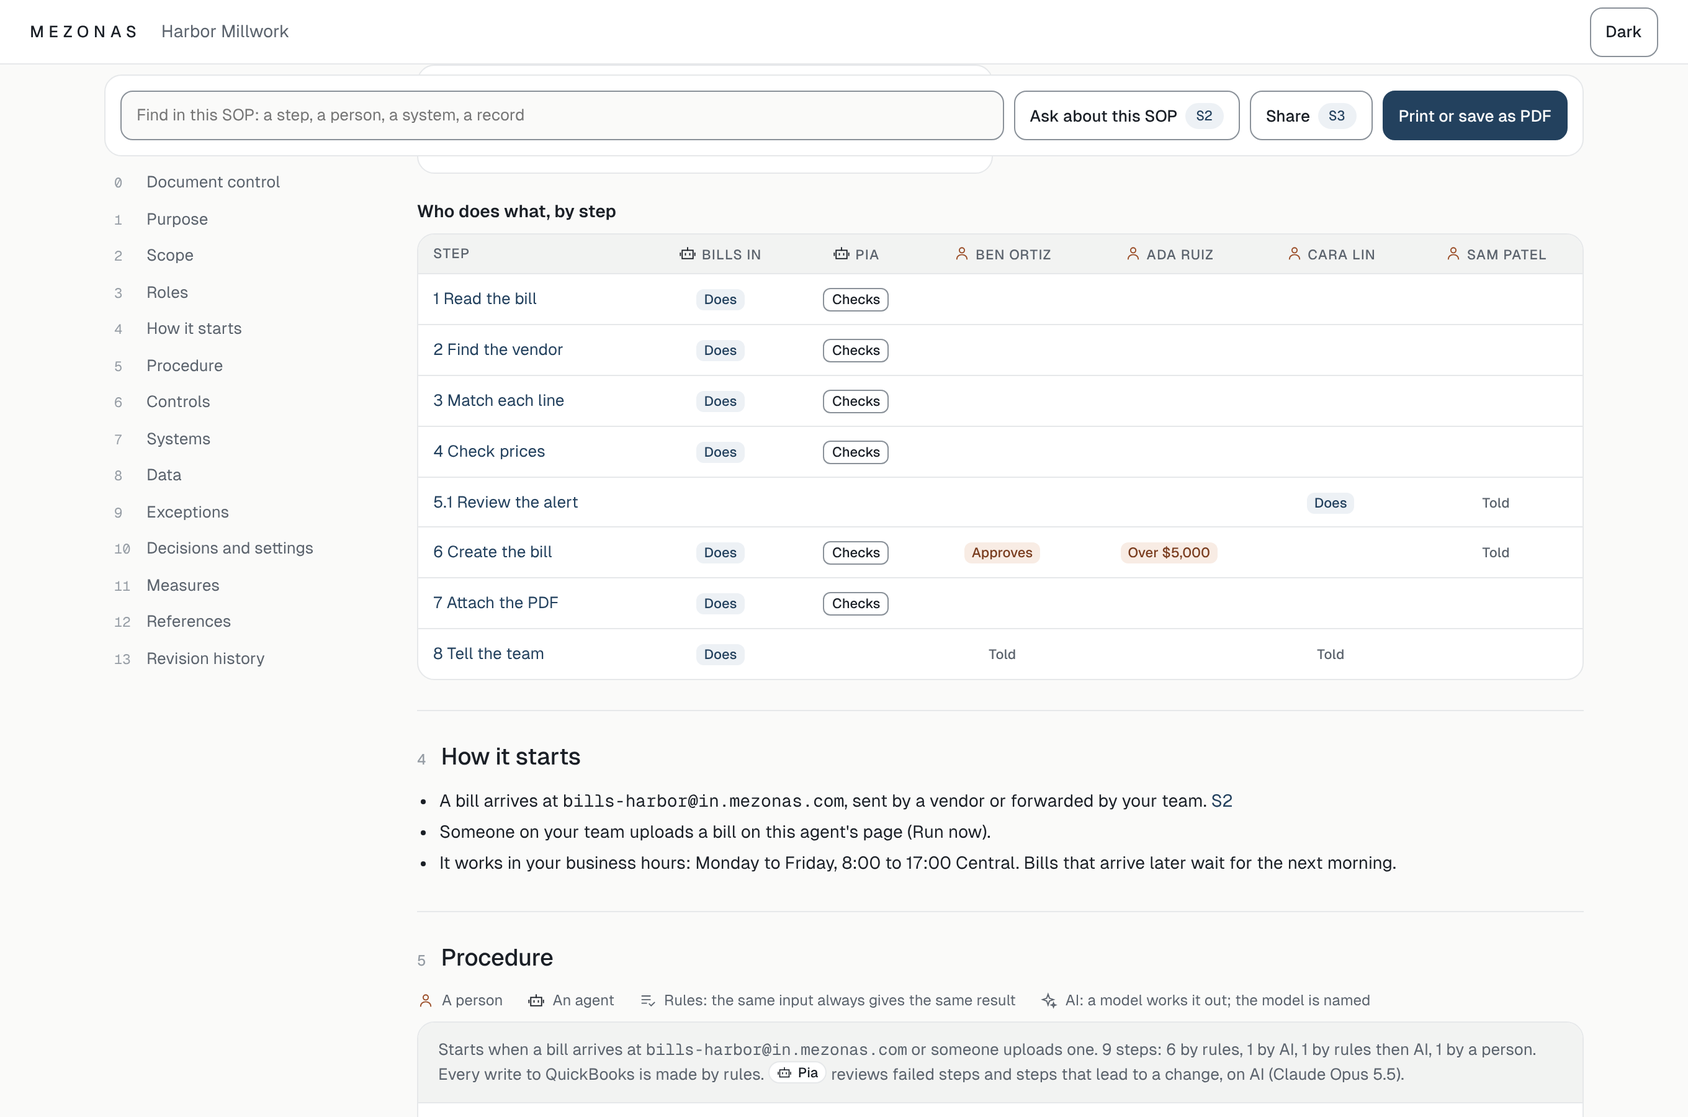
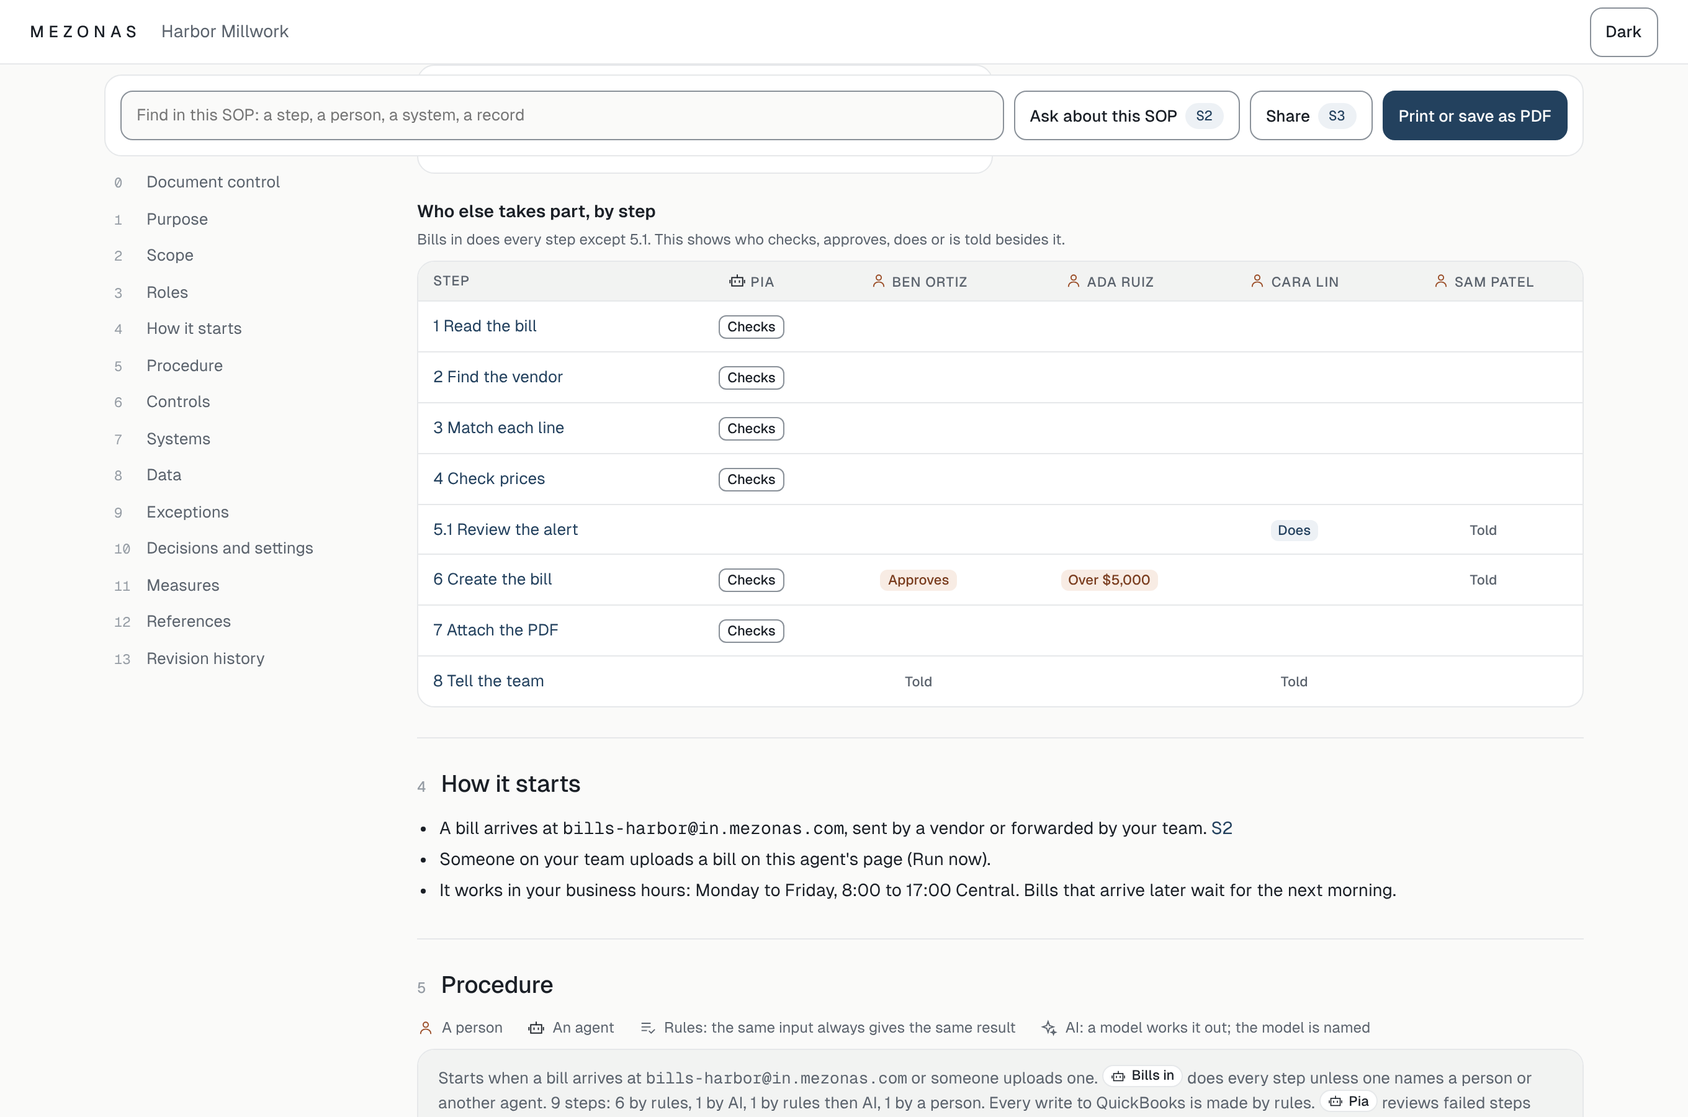
The SOP names its agent once, not on every step (owner, 2026-11-21)
A step names who does it only when that isn't the SOP's own agent: a person,
another agent or a hand-off; approvers and who is told stay in its facts. The
people table drops the agent's own column and becomes 'Who else takes part'.

Claude-Session: https://claude.ai/code/session_01SXdUGEkWKQ6EDFvppzxUte

diff --git a/docs/design/sop.html b/docs/design/sop.html
@@ -372,19 +372,20 @@
           <div class="card role"><h3>Builds and changes it <span class="chip chip--team">Mezonas</span></h3><p class="small muted">Changes to the steps are made by us and recorded as a new revision. You can adjust the settings in 10.3 yourself.</p></div>
         </div>
 
-        <h3 style="margin-bottom:var(--space-2)">Who does what, by step</h3>
+        <h3 style="margin-bottom:var(--space-1)">Who else takes part, by step</h3>
+        <p class="small muted" style="margin-bottom:var(--space-2)">Bills in does every step except 5.1. This shows who checks, approves, does or is told besides it.</p>
         <div class="tbl-wrap">
           <table class="matrix">
-            <thead><tr><th>Step</th><th><i class="ic ic-agent"></i>Bills in</th><th><i class="ic ic-agent"></i>Pia</th><th><i class="ic ic-person"></i>Ben Ortiz</th><th><i class="ic ic-person"></i>Ada Ruiz</th><th><i class="ic ic-person"></i>Cara Lin</th><th><i class="ic ic-person"></i>Sam Patel</th></tr></thead>
+            <thead><tr><th>Step</th><th><i class="ic ic-agent"></i>Pia</th><th><i class="ic ic-person"></i>Ben Ortiz</th><th><i class="ic ic-person"></i>Ada Ruiz</th><th><i class="ic ic-person"></i>Cara Lin</th><th><i class="ic ic-person"></i>Sam Patel</th></tr></thead>
             <tbody>
-              <tr><td><a href="#step-1">1 Read the bill</a></td><td><span class="cell cell--does">Does</span></td><td><span class="cell cell--checks">Checks</span></td><td></td><td></td><td></td><td></td></tr>
-              <tr><td><a href="#step-2">2 Find the vendor</a></td><td><span class="cell cell--does">Does</span></td><td><span class="cell cell--checks">Checks</span></td><td></td><td></td><td></td><td></td></tr>
-              <tr><td><a href="#step-3">3 Match each line</a></td><td><span class="cell cell--does">Does</span></td><td><span class="cell cell--checks">Checks</span></td><td></td><td></td><td></td><td></td></tr>
-              <tr><td><a href="#step-4">4 Check prices</a></td><td><span class="cell cell--does">Does</span></td><td><span class="cell cell--checks">Checks</span></td><td></td><td></td><td></td><td></td></tr>
-              <tr><td><a href="#step-5-1">5.1 Review the alert</a></td><td></td><td></td><td></td><td></td><td><span class="cell cell--does">Does</span></td><td><span class="cell cell--told">Told</span></td></tr>
-              <tr><td><a href="#step-6">6 Create the bill</a></td><td><span class="cell cell--does">Does</span></td><td><span class="cell cell--checks">Checks</span></td><td><span class="cell cell--approves">Approves</span></td><td><span class="cell cell--approves">Over $5,000</span></td><td></td><td><span class="cell cell--told">Told</span></td></tr>
-              <tr><td><a href="#step-7">7 Attach the PDF</a></td><td><span class="cell cell--does">Does</span></td><td><span class="cell cell--checks">Checks</span></td><td></td><td></td><td></td><td></td></tr>
-              <tr><td><a href="#step-8">8 Tell the team</a></td><td><span class="cell cell--does">Does</span></td><td></td><td><span class="cell cell--told">Told</span></td><td></td><td><span class="cell cell--told">Told</span></td><td></td></tr>
+              <tr><td><a href="#step-1">1 Read the bill</a></td><td><span class="cell cell--checks">Checks</span></td><td></td><td></td><td></td><td></td></tr>
+              <tr><td><a href="#step-2">2 Find the vendor</a></td><td><span class="cell cell--checks">Checks</span></td><td></td><td></td><td></td><td></td></tr>
+              <tr><td><a href="#step-3">3 Match each line</a></td><td><span class="cell cell--checks">Checks</span></td><td></td><td></td><td></td><td></td></tr>
+              <tr><td><a href="#step-4">4 Check prices</a></td><td><span class="cell cell--checks">Checks</span></td><td></td><td></td><td></td><td></td></tr>
+              <tr><td><a href="#step-5-1">5.1 Review the alert</a></td><td></td><td></td><td></td><td><span class="cell cell--does">Does</span></td><td><span class="cell cell--told">Told</span></td></tr>
+              <tr><td><a href="#step-6">6 Create the bill</a></td><td><span class="cell cell--checks">Checks</span></td><td><span class="cell cell--approves">Approves</span></td><td><span class="cell cell--approves">Over $5,000</span></td><td></td><td><span class="cell cell--told">Told</span></td></tr>
+              <tr><td><a href="#step-7">7 Attach the PDF</a></td><td><span class="cell cell--checks">Checks</span></td><td></td><td></td><td></td><td></td></tr>
+              <tr><td><a href="#step-8">8 Tell the team</a></td><td></td><td><span class="cell cell--told">Told</span></td><td></td><td><span class="cell cell--told">Told</span></td><td></td></tr>
             </tbody>
           </table>
         </div>
@@ -410,11 +411,11 @@
           <span><i class="ic ic-ai"></i>AI: a model works it out; the model is named</span>
         </div>
         <div class="card proc">
-          <div class="proc-sum searchable">Starts when a bill arrives at <span class="mono">bills-harbor@in.mezonas.com</span> or someone uploads one. 9 steps: 6 by rules, 1 by AI, 1 by rules then AI, 1 by a person. Every write to QuickBooks is made by rules. <span class="chip chip--sm chip--agent" data-person="pia">Pia</span> reviews failed steps and steps that lead to a change, on AI (Claude Opus 5.5).</div>
+          <div class="proc-sum searchable">Starts when a bill arrives at <span class="mono">bills-harbor@in.mezonas.com</span> or someone uploads one. <span class="chip chip--sm chip--agent" data-person="agent">Bills in</span> does every step unless one names a person or another agent. 9 steps: 6 by rules, 1 by AI, 1 by rules then AI, 1 by a person. Every write to QuickBooks is made by rules. <span class="chip chip--sm chip--agent" data-person="pia">Pia</span> reviews failed steps and steps that lead to a change, on AI (Claude Opus 5.5).</div>
           <div class="ps searchable" id="step-1" data-people="agent pia" data-systems="email mezonas">
             <span class="ps-n">1</span>
             <div>
-              <div class="ps-head"><span class="ps-name">Read the bill</span><span class="method method--ai"><i class="ic ic-ai"></i>AI <span class="model">Claude Sonnet 5.5</span></span><span class="chip chip--sm chip--agent" data-person="agent">Bills in</span></div>
+              <div class="ps-head"><span class="ps-name">Read the bill</span><span class="method method--ai"><i class="ic ic-ai"></i>AI <span class="model">Claude Sonnet 5.5</span></span></div>
               <p class="ps-why">Turns the PDF into vendor, date, lines and totals, so every later step works from the same figures.</p>
               <div class="ps-facts"><span class="chip chip--sm chip--system" data-system="email">Email forwarding</span> <span class="sep">·</span> Saves <a href="#data-d1">bills</a> <span class="sep">·</span> Controls <a href="#control-c8">C8</a> <a href="#control-c10">C10</a> <span class="sep">·</span> If it fails: Pia tries once more, then Ben is told<span class="ps-act"><a href="#">Ask about this</a><a href="#">This is wrong</a></span></div>
             </div>
@@ -422,7 +423,7 @@
           <div class="ps searchable" id="step-2" data-people="agent pia" data-systems="qbo">
             <span class="ps-n">2</span>
             <div>
-              <div class="ps-head"><span class="ps-name">Find the vendor</span><span class="method"><i class="ic ic-rules"></i>Rules</span><span class="chip chip--sm chip--agent" data-person="agent">Bills in</span></div>
+              <div class="ps-head"><span class="ps-name">Find the vendor</span><span class="method"><i class="ic ic-rules"></i>Rules</span></div>
               <p class="ps-why">Looks the vendor up in QuickBooks by name and tax ID, so the bill goes to the right vendor and never makes a duplicate.</p>
               <div class="ps-facts"><span class="chip chip--sm chip--system" data-system="qbo">QuickBooks Online</span> <span class="sep">·</span> <b>Read: On its own</b> <span class="sep">·</span> Reads <a href="#data-d2">vendors</a> <span class="sep">·</span> Controls <a href="#control-c3">C3</a> <a href="#control-c8">C8</a><span class="ps-act"><a href="#">Ask about this</a><a href="#">This is wrong</a></span></div>
             </div>
@@ -430,7 +431,7 @@
           <div class="ps searchable" id="step-3" data-people="agent pia" data-systems="mezonas">
             <span class="ps-n">3</span>
             <div>
-              <div class="ps-head"><span class="ps-name">Match each line to your catalog</span><span class="method method--ai"><i class="ic ic-rules"></i>Rules, then <i class="ic ic-ai"></i>AI <span class="model">Claude Haiku 5.5</span></span><span class="chip chip--sm chip--agent" data-person="agent">Bills in</span></div>
+              <div class="ps-head"><span class="ps-name">Match each line to your catalog</span><span class="method method--ai"><i class="ic ic-rules"></i>Rules, then <i class="ic ic-ai"></i>AI <span class="model">Claude Haiku 5.5</span></span></div>
               <p class="ps-why">Places each line on one of your catalog items by fixed rules; only the lines the rules can't place go to AI, so prices are compared like for like.</p>
               <div class="ps-facts"><span class="chip chip--sm chip--system" data-system="mezonas">Your Purchasing records</span> <span class="sep">·</span> Reads and saves <a href="#data-d3">catalog matches</a> <span class="sep">·</span> Controls <a href="#control-c8">C8</a> <a href="#control-c9">C9</a><span class="ps-act"><a href="#">Ask about this</a><a href="#">This is wrong</a></span></div>
             </div>
@@ -438,7 +439,7 @@
           <div class="ps searchable" id="step-4" data-people="agent pia" data-systems="mezonas">
             <span class="ps-n">4</span>
             <div>
-              <div class="ps-head"><span class="ps-name">Check prices against the contract</span><span class="method"><i class="ic ic-rules"></i>Rules</span><span class="chip chip--sm chip--agent" data-person="agent">Bills in</span></div>
+              <div class="ps-head"><span class="ps-name">Check prices against the contract</span><span class="method"><i class="ic ic-rules"></i>Rules</span></div>
               <p class="ps-why">Compares each price with the vendor's contract and raises an alert when it is more than 3% over, so an overcharge is caught before the bill goes in.</p>
               <div class="ps-facts"><span class="chip chip--sm chip--system" data-system="mezonas">Your Purchasing records</span> <span class="sep">·</span> Saves <a href="#data-d4">prices and alerts</a> <span class="sep">·</span> Tolerance 3% (<a href="#s10">10.3</a>) <span class="sep">·</span> Controls <a href="#control-c8">C8</a><span class="ps-act"><a href="#">Ask about this</a><a href="#">This is wrong</a></span></div>
             </div>
@@ -446,7 +447,7 @@
           <div class="ps searchable" id="step-5" data-people="agent" data-systems="">
             <span class="ps-n">5</span>
             <div>
-              <div class="ps-head"><span class="ps-name">Does a person need to look first?</span><span class="method"><i class="ic ic-rules"></i>Rules</span><span class="chip chip--sm chip--agent" data-person="agent">Bills in</span></div>
+              <div class="ps-head"><span class="ps-name">Does a person need to look first?</span><span class="method"><i class="ic ic-rules"></i>Rules</span></div>
               <p class="ps-why">Sends a bill with a price alert or from a new vendor to a person before anything is written to QuickBooks.</p>
               <div class="ps-facts">Controls <a href="#control-c6">C6</a><span class="ps-act"><a href="#">Ask about this</a><a href="#">This is wrong</a></span></div>
             </div>
@@ -455,16 +456,16 @@
           <div class="ps searchable nested" id="step-5-1" data-people="cara sam" data-systems="">
             <span class="ps-n">5.1</span>
             <div>
-              <div class="ps-head"><span class="ps-name">Review the price alert</span><span class="method method--person"><i class="ic ic-person"></i>A person</span><span class="chip chip--sm chip--person" data-person="cara">Cara Lin</span></div>
+              <div class="ps-head"><span class="ps-name">Review the price alert</span><span class="chip chip--person" data-person="cara">Cara Lin</span></div>
               <p class="ps-why">Cara decides whether a flagged bill goes ahead or stops.</p>
-              <div class="ps-facts">Within 1 business day; a reminder after 4 hours, then <span class="chip chip--sm chip--person" data-person="sam">Sam Patel</span> is told <span class="sep">·</span> If stopped: nothing goes into QuickBooks <span class="sep">·</span> Controls <a href="#control-c7">C7</a><span class="ps-act"><a href="#">Ask about this</a><a href="#">This is wrong</a></span></div>
+              <div class="ps-facts">Within 1 business day; a reminder after 4 hours, then <span class="chip chip--sm chip--person" data-person="sam">Sam Patel</span> is told <span class="sep">·</span> If stopped: nothing goes into QuickBooks, and <span class="chip chip--sm chip--agent">Vendor follow-ups</span> takes it up with the vendor <span class="sep">·</span> Controls <a href="#control-c7">C7</a><span class="ps-act"><a href="#">Ask about this</a><a href="#">This is wrong</a></span></div>
             </div>
           </div>
           <div class="ps-path searchable"><b>Otherwise</b> straight to 6</div>
           <div class="ps searchable" id="step-6" data-people="agent pia ben ada sam" data-systems="qbo">
             <span class="ps-n">6</span>
             <div>
-              <div class="ps-head"><span class="ps-name">Create the bill in QuickBooks</span><span class="method"><i class="ic ic-rules"></i>Rules</span><span class="chip chip--sm chip--agent" data-person="agent">Bills in</span></div>
+              <div class="ps-head"><span class="ps-name">Create the bill in QuickBooks</span><span class="method"><i class="ic ic-rules"></i>Rules</span></div>
               <p class="ps-why">Writes the bill into QuickBooks exactly as it was approved. No AI takes part in the write.</p>
               <div class="ps-facts">Approves <span class="chip chip--sm chip--person" data-person="ben">Ben Ortiz</span> up to $5,000, <span class="chip chip--sm chip--person" data-person="ada">Ada Ruiz</span> over <span class="sep">·</span> within 2 business days, then <span class="chip chip--sm chip--person" data-person="sam">Sam Patel</span> is told <span class="sep">·</span> <span class="chip chip--sm chip--system" data-system="qbo">QuickBooks Online</span> <span class="sep">·</span> <b>Create: Ask me first</b> <span class="sep">·</span> Creates <a href="#data-d5">bills</a> <span class="sep">·</span> Controls <a href="#control-c1">C1</a> <a href="#control-c2">C2</a> <a href="#control-c3">C3</a> <a href="#control-c5">C5</a> <a href="#control-c7">C7</a> <span class="sep">·</span> If rejected: not created, and Cara is told why<span class="ps-act"><a href="#">Ask about this</a><a href="#">This is wrong</a></span></div>
             </div>
@@ -472,7 +473,7 @@
           <div class="ps searchable" id="step-7" data-people="agent pia" data-systems="qbo">
             <span class="ps-n">7</span>
             <div>
-              <div class="ps-head"><span class="ps-name">Attach the PDF to the bill</span><span class="method"><i class="ic ic-rules"></i>Rules</span><span class="chip chip--sm chip--agent" data-person="agent">Bills in</span></div>
+              <div class="ps-head"><span class="ps-name">Attach the PDF to the bill</span><span class="method"><i class="ic ic-rules"></i>Rules</span></div>
               <p class="ps-why">Keeps the original bill with its QuickBooks record, so anyone can check it later.</p>
               <div class="ps-facts"><span class="chip chip--sm chip--system" data-system="qbo">QuickBooks Online</span> <span class="sep">·</span> <b>Update: On its own</b> (since <a href="#s13">6.1</a>) <span class="sep">·</span> Controls <a href="#control-c3">C3</a> <a href="#control-c5">C5</a><span class="ps-act"><a href="#">Ask about this</a><a href="#">This is wrong</a></span></div>
             </div>
@@ -480,7 +481,7 @@
           <div class="ps searchable" id="step-8" data-people="agent ben cara" data-systems="">
             <span class="ps-n">8</span>
             <div>
-              <div class="ps-head"><span class="ps-name">Tell the team</span><span class="method"><i class="ic ic-rules"></i>Rules</span><span class="chip chip--sm chip--agent" data-person="agent">Bills in</span></div>
+              <div class="ps-head"><span class="ps-name">Tell the team</span><span class="method"><i class="ic ic-rules"></i>Rules</span></div>
               <p class="ps-why">Lets Ben and Cara see each bill that went in.</p>
               <div class="ps-facts">Told <span class="chip chip--sm chip--person" data-person="ben">Ben Ortiz</span> <span class="chip chip--sm chip--person" data-person="cara">Cara Lin</span> <span class="sep">·</span> In Mezonas and by email<span class="ps-act"><a href="#">Ask about this</a><a href="#">This is wrong</a></span></div>
             </div>

diff --git a/docs/sop-plan.md b/docs/sop-plan.md
@@ -60,7 +60,8 @@ with a test, in its own PR, whatever is decided here (S0 below).
 | The model on each AI step (owner, 2026-11-21) | Each AI step names the model it runs on, resolved in the runtime's own order (the step's `model`, else its skill's, else the agent's), by one shared function the runtime and the SOP both call, so they can't disagree. The area owner's model is named in Roles and on its control. Shown by name and maker ("Claude Sonnet 5.5, Anthropic"; "GPT-5.5, OpenAI"), from a client-facing list beside `MODEL_LABELS` in `packages/llm`, passed into core by `apps/api` (core doesn't import `llm`). A model with no client-facing name reads "An AI model" rather than an id. Never its price, effort, tokens or prompt. Each maker is already on the public subprocessors list. // DECISION |
 | The point of each step (owner, 2026-11-21) | Every step carries one sentence on why it is there ("Looks the vendor up in QuickBooks so the bill goes to the right vendor, not a duplicate"): a new optional `purpose` on core's step schemas (v3 and v4, at most 200 characters, no default, so stored bundles parse and hash as before). The Builder writes it when it drafts a step, the operator reads and edits it in the step panel, and it is versioned and merged with the step like its name. A step without one reads a plain line made by code from its kind, tool and data ("Reads vendors from QuickBooks Online."), never one made by a model when the SOP is read. // DECISION |
 | People and agents told apart by icon (owner, 2026-11-21) | Every name in the SOP carries an icon: a person (the icon set's `mz-lead`, in copper), an agent (an agent icon, in ink), the client's team (`mz-team`, copper), Mezonas' people (copper). Rules and AI carry their own icons beside the step's method. The icon set has no agent, AI or rules icon yet: the mock-up draws provisional ones on the set's grid (24px, 1.5px stroke, square caps), and the owner asks the designer for `mz-agent`, `mz-ai` and `mz-rules` in the design system's next delivery (CLAUDE.md: the design system isn't edited here). // DECISION |
-| Steps read as a list, not cards | The procedure is one list: a line per step with its number, name, how it works (Rules, AI with its model, or a person) and who; under it the step's purpose; under that one line of facts (approvers and by when, the system and what it may do, data, controls). Nested steps are indented under their path's condition. What happens on an error or a rejection is one short clause on the step, with the detail in Exceptions. // DECISION |
+| The agent is named once (owner, 2026-11-21) | The whole SOP is one agent's, so its name isn't repeated on its steps: the procedure says once "Bills in does every step unless one names a person or another agent". A step names who does it only when that isn't this agent: a person (a person step's assignee, in place of the method), another agent (a skill step run by another agent, `SkillStep.agent`; a hand-off), and, in its facts, who approves and who is told. The people table has no column for the agent itself (its answer would be "Does" on every row) and is titled "Who else takes part". // DECISION |
+| Steps read as a list, not cards | The procedure is one list: a line per step with its number, name, how it works (Rules, AI with its model) or, for a person step, the person; under it the step's purpose; under that one line of facts (approvers and by when, the system and what it may do, data, controls). Nested steps are indented under their path's condition. What happens on an error or a rejection is one short clause on the step, with the detail in Exceptions. // DECISION |
 | "Current set up" means the setup that runs | The **live version** of the agent (else the latest, as the manual does), plus what is set outside the version and changes what happens: the agent row (`bindings`, `people`, `channels`, `approver`, `stage`, `pause`, `hold`, `area`), each bound connection's permissions and the agent's grant, the client's approver rules, business hours and compliance mode, the area owner's name and the lead. Changing any of them changes the SOP. // DECISION |
 | Controls say what happens now | A write step's control line is worked out by the **gate's own code** (`decideWrite` with the agent's mode, stage, matrix and grant), never a copy of its logic, so the SOP can't say "runs on its own" where the gate would ask. What only a run knows (an amount over an approver rule, a person who asked to see changes first, a hold) is shown as a condition: "Ada approves when the bill is over $5,000". // DECISION |
 | No open items (owner, 2026-11-21) | The SOP states how the process runs. Nothing in it waits on anyone: no "Waiting on you", no pending approval of the SOP, no "never discussed", no setup still to answer, no gold. A decision shows what was decided and who set it ("Us, 4 Nov 2026", "Confirmed with you", "Ada Ruiz, 15 Nov 2026"). What is still open stays where it is worked on: the back office's Manual tab and build page, the setup checklist, the agent's Settings and the Desk. A person step in the process ("Cara reviews the price alert") is part of how it runs, not an open item. // DECISION |
